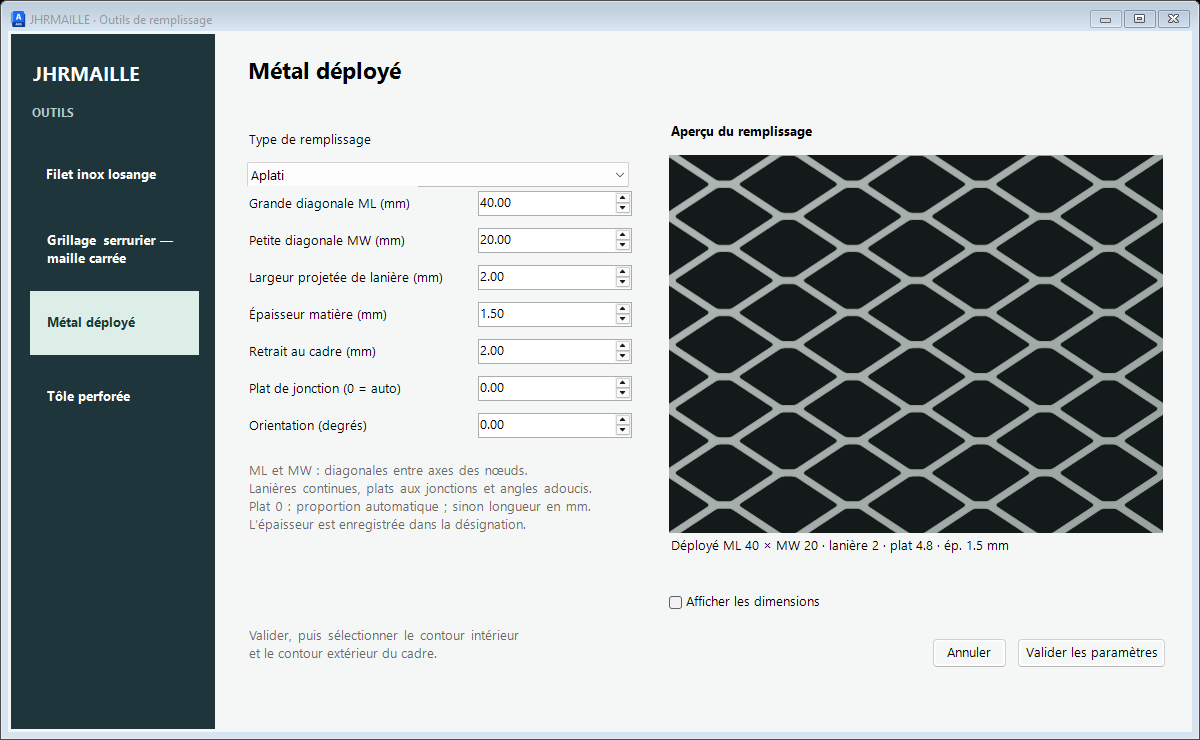
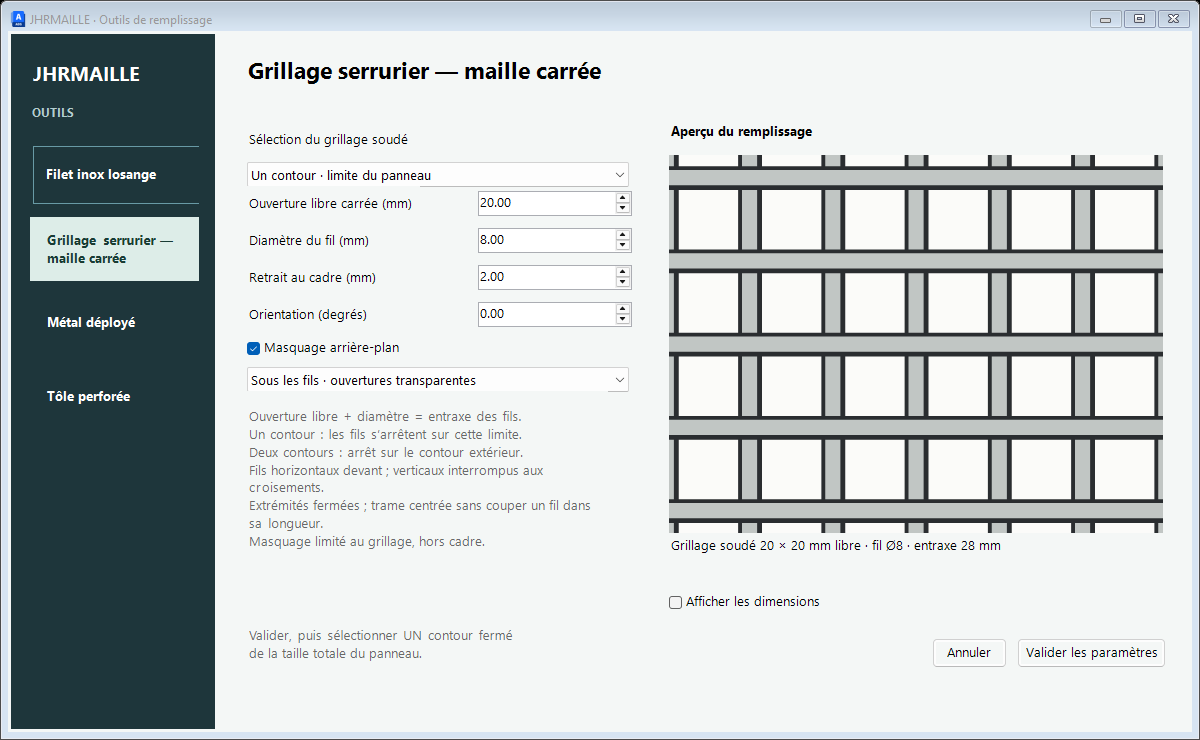
Ferme les extremites du grillage et ajoute le masquage sous les fils

diff --git a/JHRMaille2D/Interface/Plugin.cs b/JHRMaille2D/Interface/Plugin.cs
@@ -5,17 +5,18 @@ using AcApp=Autodesk.AutoCAD.ApplicationServices.Application;
 namespace JhrMailleUi;
 public static class Plugin
 {
-    [LispFunction("jhr:maille-dialog-v132")]
+    [LispFunction("jhr:maille-dialog-v133r1")]
     public static ResultBuffer Dialog(ResultBuffer args)
     {
         try
         {
             var raw=args.AsArray();
-            if(raw.Length is not (11 or 12 or 37)) throw new ArgumentException("11 paramètres, une référence et les paramètres facultatifs des trois outils sont attendus.");
+            if(raw.Length is not (11 or 12 or 37 or 38)) throw new ArgumentException("11 paramètres, une référence et les paramètres facultatifs des trois outils sont attendus.");
             var v=raw.Take(11).Select(x=>Convert.ToDouble(x.Value)).ToArray();
             var s=new MeshSettings(v[0],v[1],v[2],v[3],v[4],v[5],v[6]!=0,v[7]!=0,v[8],v[9],(int)v[10],raw.Length>=12?Convert.ToString(raw[11].Value)??"":"");
             var state=new FillSettings{Mesh=s};
-            if(raw.Length==37){var extra=raw.Skip(12).Select(x=>Convert.ToDouble(x.Value)).ToArray();if(extra[0] is <0 or >3 || extra[0]!=(int)extra[0])throw new ArgumentException("Outil inconnu.");state=state with{Tool=(FillTool)(int)extra[0],Square=PatternSettings.From(extra.Skip(1).Take(8).ToArray()),Expanded=PatternSettings.From(extra.Skip(9).Take(8).ToArray()),Perforated=PatternSettings.From(extra.Skip(17).Take(8).ToArray())};}
+            if(raw.Length>=37){var extra=raw.Skip(12).Select(x=>Convert.ToDouble(x.Value)).ToArray();if(extra[0] is <0 or >3 || extra[0]!=(int)extra[0])throw new ArgumentException("Outil inconnu.");state=state with{Tool=(FillTool)(int)extra[0],Square=PatternSettings.From(extra.Skip(1).Take(8).ToArray()),Expanded=PatternSettings.From(extra.Skip(9).Take(8).ToArray()),Perforated=PatternSettings.From(extra.Skip(17).Take(8).ToArray())};}
+            if(raw.Length==38)state=state with{SquareMask=Convert.ToInt32(raw[37].Value)};
             using var form=new MeshForm(state);
             if(AcApp.ShowModalDialog(form)!=DialogResult.OK)
                 return new ResultBuffer(new TypedValue((int)LispDataType.Nil));
@@ -23,7 +24,7 @@ public static class Plugin
             var product=JakobCatalogue.Find(s.ProductReference);
             return new ResultBuffer(new[]{s.Width,s.Height,s.Wire,s.Lace,s.Gap,s.Angle,
                 s.Woven?1d:0d,s.AutoCorners?1d:0d,s.SleeveLength,s.SleeveHeight,(double)s.Stops}
-                .Select(x=>new TypedValue((int)LispDataType.Double,x)).Concat(new[]{s.ProductReference,product?.Family??"",product?.Material??""}.Select(x=>new TypedValue((int)LispDataType.Text,x))).Concat(state.ExtraValues().Select(x=>new TypedValue((int)LispDataType.Double,x))).ToArray());
+                .Select(x=>new TypedValue((int)LispDataType.Double,x)).Concat(new[]{s.ProductReference,product?.Family??"",product?.Material??""}.Select(x=>new TypedValue((int)LispDataType.Text,x))).Concat(state.ExtraValues().Append((double)state.SquareMask).Select(x=>new TypedValue((int)LispDataType.Double,x))).ToArray());
         }
         catch(System.Exception e)
         {
@@ -31,6 +32,6 @@ public static class Plugin
             return new ResultBuffer(new TypedValue((int)LispDataType.Nil));
         }
     }
-    [LispFunction("jhr:maille-ui-version-v132")]
-    public static string Version(ResultBuffer args)=>"1.3.2";
+    [LispFunction("jhr:maille-ui-version-v133r1")]
+    public static string Version(ResultBuffer args)=>"1.3.3";
 }

diff --git a/JHRMaille2D/Interface/PatternPage.cs b/JHRMaille2D/Interface/PatternPage.cs
@@ -6,13 +6,16 @@ public sealed class PatternPage : UserControl
     public event Action? Accepted;
     public event Action? Cancelled;
     readonly FillTool tool;
+    readonly CheckBox mask=new(){Text="Masquage arrière-plan",AutoSize=true};
+    readonly ComboBox maskScope=new(){Dock=DockStyle.Fill,DropDownStyle=ComboBoxStyle.DropDownList};
+    public int Mask=>mask.Checked?maskScope.SelectedIndex+1:0;
     readonly Dictionary<string,NumericUpDown> numbers=new();
     readonly ComboBox pattern=new(){Dock=DockStyle.Fill,DropDownStyle=ComboBoxStyle.DropDownList};
     readonly PatternPreview preview=new(){Dock=DockStyle.Fill};
     readonly Label error=new(){AutoSize=true,Dock=DockStyle.Fill};
     readonly Label caption=new(){AutoSize=true,Dock=DockStyle.Fill};
     readonly CheckBox dimensions=new(){Text="Afficher les dimensions",AutoSize=true};
-    public PatternPage(FillTool tool,PatternSettings s)
+    public PatternPage(FillTool tool,PatternSettings s,int squareMask=0)
     {
         this.tool=tool;Dock=DockStyle.Fill;
         var layout=new TableLayoutPanel{Dock=DockStyle.Fill,Padding=new(20),ColumnCount=2,RowCount=3};
@@ -36,8 +39,15 @@ public sealed class PatternPage : UserControl
         if(tool==FillTool.Expanded)Number("margin","Plat de jonction (0 = auto)",s.Margin,0);
         if(tool==FillTool.Perforated)Number("margin","Bordure pleine minimum (mm)",s.Margin,0);
         Number("angle","Orientation (degrés)",s.Angle,-360,360);
+        if(tool==FillTool.Square){
+            fields.Controls.Add(mask,0,row++);fields.SetColumnSpan(mask,2);
+            maskScope.Items.AddRange(["Sous les fils · ouvertures transparentes","Toute la surface intérieure"]);
+            maskScope.SelectedIndex=squareMask==2?1:0;mask.Checked=squareMask!=0;maskScope.Enabled=mask.Checked;
+            fields.Controls.Add(maskScope,0,row++);fields.SetColumnSpan(maskScope,2);
+            mask.CheckedChanged+=(_,_)=>maskScope.Enabled=mask.Checked;
+        }
         string hint=tool switch{
-            FillTool.Square=>"Ouverture libre + diamètre = entraxe des fils.\nUn contour : les fils s’arrêtent sur cette limite.\nDeux contours : arrêt sur le contour extérieur.\nFils horizontaux devant ; verticaux interrompus aux croisements.",
+            FillTool.Square=>"Ouverture libre + diamètre = entraxe des fils.\nUn contour : les fils s’arrêtent sur cette limite.\nDeux contours : arrêt sur le contour extérieur.\nFils horizontaux devant ; verticaux interrompus aux croisements.\nExtrémités fermées ; trame centrée sans couper un fil dans sa longueur.\nMasquage limité au grillage, hors cadre.",
             FillTool.Expanded=>"ML et MW : diagonales entre axes des nœuds.\nLanières continues, plats aux jonctions et angles adoucis.\nPlat 0 : proportion automatique ; sinon longueur en mm.\nL’épaisseur est enregistrée dans la désignation.",
             _=>"T : entraxe triangulaire à 60°. U : trame alignée.\nSeuls les trous entiers sont dessinés ; la bordure reste pleine.\nL’épaisseur est enregistrée dans la désignation."};
         var help=new Label{Text=hint,AutoSize=true,MaximumSize=new(365,0),ForeColor=Color.DimGray,Padding=new(0,16,0,0)};fields.Controls.Add(help,0,row);fields.SetColumnSpan(help,2);

diff --git a/JHRMaille2D/Interface/MeshForm.cs b/JHRMaille2D/Interface/MeshForm.cs
@@ -96,7 +96,7 @@ public sealed class MeshForm : Form
         family.SelectedItem=product!=null&&product.Matches(s)?product.Family:"Personnalisée · saisie libre";
         catalogUpdating=false;PopulateDiameters(s.ProductReference);
         foreach(var tool in new[]{FillTool.Square,FillTool.Expanded,FillTool.Perforated}){
-            var page=new PatternPage(tool,tools.Pattern(tool)){Visible=false};
+            var page=new PatternPage(tool,tools.Pattern(tool),tools.SquareMask){Visible=false};
             page.Accepted+=Finish;page.Cancelled+=()=>{DialogResult=DialogResult.Cancel;Close();};pages.Add(tool,page);pageHost.Controls.Add(page);
         }
         navigation.ToolSelected+=key=>ShowTool(key switch{"grillage-carre"=>FillTool.Square,"metal-deploye"=>FillTool.Expanded,"tole-perforee"=>FillTool.Perforated,_=>FillTool.Mesh});
@@ -107,7 +107,7 @@ public sealed class MeshForm : Form
     void ShowTool(FillTool tool){selectedTool=tool;meshPage.Visible=tool==FillTool.Mesh;foreach(var item in pages)item.Value.Visible=item.Key==tool;
         if(tool==FillTool.Mesh){meshPage.BringToFront();AcceptButton=accept;CancelButton=meshCancel;}
         else{pages[tool].BringToFront();AcceptButton=pages[tool].Accept;CancelButton=pages[tool].Cancel;}}
-    FillSettings ReadTools(){var state=initialTools with{Tool=selectedTool,Mesh=Read()};foreach(var item in pages)state=state.WithPattern(item.Key,item.Value.Read());return state;}
+    FillSettings ReadTools(){var state=initialTools with{Tool=selectedTool,Mesh=Read()};foreach(var item in pages)state=state.WithPattern(item.Key,item.Value.Read());return state with{SquareMask=pages[FillTool.Square].Mask};}
     void Finish(){var candidate=ReadTools();if(candidate.Validate()!=null)return;ToolSettings=candidate;Settings=candidate.Mesh;DialogResult=DialogResult.OK;Close();}
     MeshSettings Read()=>new((double)numbers["width"].Value,(double)numbers["height"].Value,(double)numbers["wire"].Value,
         (double)numbers["lace"].Value,(double)numbers["gap"].Value,(double)numbers["angle"].Value,mode.SelectedIndex==1,corners.Checked,

diff --git a/JHRMaille2D/Interface/Tests/Program.cs b/JHRMaille2D/Interface/Tests/Program.cs
@@ -84,6 +84,16 @@ static class Program
    using var timer=new System.Windows.Forms.Timer{Interval=60};timer.Tick+=(_,_)=>{timer.Stop();f.CancelButton!.PerformClick();};timer.Start();
    Check(f.ShowDialog()==DialogResult.Cancel&&f.ToolSettings==initial,"Annuler conserve toutes les pages et l’outil initial");
   }
+  foreach(int maskMode in new[]{0,1,2})foreach(bool cancel in new[]{false,true}){
+   using var f=new MeshForm(initial with{Tool=FillTool.Square,SquareMask=2});
+   var page=Field<Dictionary<FillTool,PatternPage>>(f,"pages")[FillTool.Square];
+   Check(page.Mask==2,"Masquage : restauration du choix");
+   Field<CheckBox>(page,"mask").Checked=maskMode!=0;Field<ComboBox>(page,"maskScope").SelectedIndex=maskMode==2?1:0;
+   Field<ToolNavigation>(f,"navigation").SelectTool("metal-deploye");Field<ToolNavigation>(f,"navigation").SelectTool("grillage-carre");
+   Check(page.Mask==maskMode,"Masquage : navigation conserve le choix "+maskMode);
+   using var timer=new System.Windows.Forms.Timer{Interval=60};timer.Tick+=(_,_)=>{timer.Stop();if(cancel)f.CancelButton!.PerformClick();else f.AcceptButton!.PerformClick();};timer.Start();
+   Check(f.ShowDialog()==(cancel?DialogResult.Cancel:DialogResult.OK)&&f.ToolSettings.SquareMask==(cancel?2:maskMode),"Masquage : validation/annulation "+maskMode+" "+cancel);
+  }
   foreach(int mode in new[]{0,1,2}){
    using var f=new MeshForm(initial with{Tool=FillTool.Square,Square=initial.Square with{Pattern=mode}});
    var page=Field<Dictionary<FillTool,PatternPage>>(f,"pages")[FillTool.Square];

diff --git a/JHRMaille2D/Interface/FillSettings.cs b/JHRMaille2D/Interface/FillSettings.cs
@@ -16,6 +16,7 @@ public sealed record PatternSettings(double A,double B,double Wire,double Thickn
 public sealed record FillSettings
 {
     public FillTool Tool {get;init;}
+    public int SquareMask {get;init;}
     public MeshSettings Mesh {get;init;}=new();
     public PatternSettings Square {get;init;}=new(30,30,3,1);
     public PatternSettings Expanded {get;init;}=new(40,20,2,1.5);
@@ -23,5 +24,5 @@ public sealed record FillSettings
     public PatternSettings Pattern(FillTool tool)=>tool switch {FillTool.Square=>Square,FillTool.Expanded=>Expanded,FillTool.Perforated=>Perforated,_=>throw new ArgumentException("Outil de motif attendu.")};
     public FillSettings WithPattern(FillTool tool,PatternSettings value)=>tool switch {FillTool.Square=>this with{Square=value},FillTool.Expanded=>this with{Expanded=value},FillTool.Perforated=>this with{Perforated=value},_=>throw new ArgumentException()};
     public double[] ExtraValues()=>new[]{(double)Tool}.Concat(Square.Values()).Concat(Expanded.Values()).Concat(Perforated.Values()).ToArray();
-    public string? Validate()=>Tool==FillTool.Mesh?Mesh.Validate():Pattern(Tool).Validate(Tool);
+    public string? Validate()=>SquareMask is <0 or >2?"Masquage inconnu.":Tool==FillTool.Mesh?Mesh.Validate():Pattern(Tool).Validate(Tool);
 }

diff --git a/JHRMaille2D/README.md b/JHRMaille2D/README.md
@@ -1,19 +1,19 @@
-# JHRMAILLE 1.3.2 — panneaux de remplissage en 2D
+# JHRMAILLE 1.3.3 — panneaux de remplissage en 2D
 
 Commande AutoLISP avec une interface commune pour créer des panneaux : **filet inox losange**, **grillage serrurier à maille carrée**, **métal déployé** et **tôle perforée**. Chaque outil possède ses réglages et son aperçu. Le filet conserve les références Jakob Webnet et son laçage adapté au cadre.
 
-![Interface JHRMAILLE](Apercu_interface.png)
+![Interface](Apercu_interface.png)
 
-![Les quatre panneaux](Apercu_panneaux.png)
+![Extrémités fermées](Apercu_grillage_extremites.png)
 
-![Détail du déployé corrigé](Apercu_deploye.png)
+![Contrôle du masquage](Apercu_grillage_masquage.png)
 
 ## Installation
 
-Télécharger le dossier complet **JHRMaille2D** du dépôt, ou l’archive du dépôt : le LISP seul ne contient pas l’interface. Les deux fichiers nécessaires sont `JHR_Maille_2D.lsp` et `JhrMailleUi_v1_3_2.dll`.
+Télécharger le dossier complet **JHRMaille2D** du dépôt, ou l’archive du dépôt : le LISP seul ne contient pas l’interface. Les deux fichiers nécessaires sont `JHR_Maille_2D.lsp` et `JhrMailleUi_v1_3_3r1.dll`.
 
 1. Dans AutoCAD pour Windows, charger `JHR_Maille_2D.lsp` avec **APPLOAD**.
-2. Charger `JhrMailleUi_v1_3_2.dll` avec **NETLOAD**. Cette étape n’est pas nécessaire si le dossier est déjà dans les chemins de recherche et que le LISP trouve la DLL automatiquement.
+2. Charger `JhrMailleUi_v1_3_3r1.dll` avec **NETLOAD**. Cette étape n’est pas nécessaire si le dossier est déjà dans les chemins de recherche et que le LISP trouve la DLL automatiquement.
 3. Respecter les règles de sécurité de l’installation. L’outil ne modifie pas SECURELOAD ou TRUSTEDPATHS.
 4. Lancer **JHRMAILLEPARAM** pour vérifier que la fenêtre s’ouvre, puis **JHRMAILLE** pour créer un panneau.
 
@@ -53,6 +53,8 @@ Pour le grillage, le déployé et la tôle perforée, ces dimensions sont l’en
 
 Le grillage est **soudé à fils droits**. La dimension saisie est l’ouverture libre entre les bords des fils ; **entraxe = ouverture libre + diamètre**. Exemple : ouverture 30 mm et fil Ø3 mm → entraxe 33 mm. Les fils sont dessinés par **deux bords géométriques sans largeur de polyligne**. Les fils horizontaux passent devant ; les deux bords des verticaux s’interrompent à chaque croisement.
 
+La trame est centrée en conservant le pas et le diamètre. Sur un rectangle orienté selon la trame, les rives finissent dans une ouverture : aucun rond coupé dans sa longueur. Les bouts des fils sont fermés par un trait de coupe suivant l’angle réel du contour, y compris en trapèze et sur un contour concave. Un panneau plus petit que le diamètre du fil est refusé.
+
 Choisir dans **Sélection du grillage soudé** :
 
 - **Un contour · limite du panneau** : sélectionner une seule polyligne fermée. Les fils sont découpés sur cette limite.
@@ -62,6 +64,21 @@ Choisir dans **Sélection du grillage soudé** :
 Pour finir exactement sur la limite choisie, régler **Retrait au cadre = 0**. Un retrait positif réduit le panneau à l’intérieur de cette limite. Les polylignes trapézoïdales et les contours concaves sont aussi découpés ; un retrait qui divise le panneau est refusé.
 
 Les traits cachés utilisent le type de ligne local **JHR_CACHE**, motif 4 mm / espace 2 mm. Seul leur type de ligne est fixé ; couleur et épaisseur restent DuCalque. L’affichage imprimé dépend aussi des réglages de type de ligne de la présentation et de la fenêtre. L’outil ne change pas LTSCALE, PSLTSCALE ou les présentations.
+
+### Masquage arrière-plan du grillage
+
+Dans la page **Grillage serrurier — maille carrée**, cocher **Masquage arrière-plan**, puis choisir :
+
+- **Sous les fils · ouvertures transparentes** : des WIPEOUT suivent uniquement la matière des ronds. Les objets derrière sont cachés sous les fils et restent visibles dans les ouvertures.
+- **Toute la surface intérieure** : un WIPEOUT masque toute l’ouverture intérieure du cadre, sous le dessin du grillage.
+
+Décocher crée le panneau sans masquage. Le choix est conservé pendant la session et en changeant de page ; Annuler, Échap et la croix conservent les réglages précédents. L’option concerne uniquement le grillage serrurier.
+
+Avec deux contours, les masques restent dans l’ouverture intérieure ; la bande derrière le cadre n’efface pas le cadre. Avec un contour, ils suivent le panneau après retrait. Les masques sont les premiers objets du bloc, sur calque 0 / DuCalque, derrière la grille. Placer la référence du panneau devant les objets à masquer ; si besoin : **ORDRETRACE → Avant**.
+
+Si les contours des WIPEOUT sont visibles, **WIPEOUTFRAME = 0** les cache ; **2** les affiche pour l’édition sans les imprimer. La commande laisse ce réglage du dessin inchangé. Maximum : 3 000 masques sous les fils ; diviser le panneau ou augmenter le pas au-delà. Les contours concaves sont décomposés en surfaces convexes pour conserver les ouvertures transparentes.
+
+Sans interface : **JHRMAILLEPARAMCLI → Carre → Masquage [Aucun/Fils/Surface]**. La sélection d’un/deux contours, les traits cachés et l’annulation en une étape restent disponibles.
 
 ## Métal déployé
 
@@ -134,4 +151,7 @@ Validation complémentaire du 11 octobre 2026 : compilation sans avertissement ;
 Limite pour les nouveaux outils : **15 000 positions de trame examinées**. Diviser un grand panneau ou augmenter le pas si cette limite est atteinte. Le grillage à deux bords et la tôle perforée détaillée créent davantage d’entités qu’une représentation schématique.
 
 
-Correction 1.3.2 du 11 octobre 2026 : métal déployé redessiné avec plats de jonction, contours continus et raccords adoucis, à partir de l’image fournie. L’aperçu .NET et le contour AutoLISP ont 30 points identiques à 10⁻¹⁰ mm près pour le cas ML40 / MW20 / lanière2. Six panneaux natifs vérifiés : automatique, plat7, trapèze, concave, rotation17°, relief60×30. Tous les sommets des contours restent dans le panneau source ; 6 534 polylignes auditées sans largeur et sur calque0 / DuCalque. Commande complète, désignation avec plat, annulation en une étape et refus des plats incompatibles / motifs trop denses validés. Les trois autres outils et les références Jakob sont conservés.
+Correction 1.3.2 du 11 octobre 2026 : métal déployé redessiné avec plats de jonction, contours continus et raccords adoucis, à partir de l’image fournie. L’aperçu .NET et le contour AutoLISP ont 30 points identiques à 10⁻¹⁰ mm près pour le cas ML40 / MW20 / lanière2. Six panneaux natifs vérifiés : automatique, plat7, trapèze, concave, rotation 17°, relief60×30. Tous les sommets des contours restent dans le panneau source ; 6 534 polylignes auditées sans largeur et sur calque 0 / DuCalque. Commande complète, désignation avec plat, annulation en une étape et refus des plats incompatibles / motifs trop denses validés. Les trois autres outils et les références Jakob sont conservés.
+
+
+Correction 1.3.3 du 11 octobre 2026 : trame centrée du grillage, fils entiers aux rives, extrémités fermées et masquage optionnel. Huit cas natifs sans masque puis huit avec les options vérifiés : 600×600, 750,7×762, deux contours visibles/cachés, trapèze, concave, rotation 17° et petit panneau Ø8. Contrôle des coupes, du contour, des croisements et des propriétés DuCalque ; ordre des WIPEOUT contrôlé dans les blocs réels. Export AutoCAD avec lignes rouges derrière : masquage sous les fils et ouvertures transparentes. Interface native finale 1.3.3, annulation des réglages, dimensions après retrait et Undo unique validés. Compilation sans avertissement et tests des quatre pages / 202 références Jakob conservés. Plan client préservé.

diff --git a/JHRMaille2D/Interface/VALIDATION_GRILLAGE.md b/JHRMaille2D/Interface/VALIDATION_GRILLAGE.md
@@ -1,0 +1,11 @@
+# Grillage serrurier — correction 1.3.3
+
+- Huit cas sans masque + huit avec : rectangles, trapèze, concave, rotation 17°, Ø8, un/deux contours, traits cachés.
+- Audit géométrique des coupes fermées et des croisements ; export Lisp arrondi, tolérance 0,002 mm sur les contours tournés.
+- WIPEOUT réels, premiers dans les blocs et DuCalque. Sous les fils :59 à 126 masques ; surface intérieure : 1 ; option désactivée : 0.
+- PNG natif AutoCAD avec traits rouges derrière : cachés sous les ronds, visibles dans les ouvertures.
+- Commande complète : retrait 2 mm, nom 596×596, panneau+masques retirés par une seule annulation.
+- .NET10/AutoCAD2027 :0 erreur / 0 avertissement. Masquage : navigation/restauration/validation/annulation. Interface native finale 1.3.3 testée.
+- Contrat 38 entrées / 40 sorties ; les 25 paramètres supplémentaires historiques restent intacts.
+- Moteurs filet inox, métal déployé et perforations inchangés. Quatre pages/ 202 références Jakob testées.
+- Les blocs déjà insérés restent inchangés : recréer un panneau pour la nouvelle finition ou le masquage.
